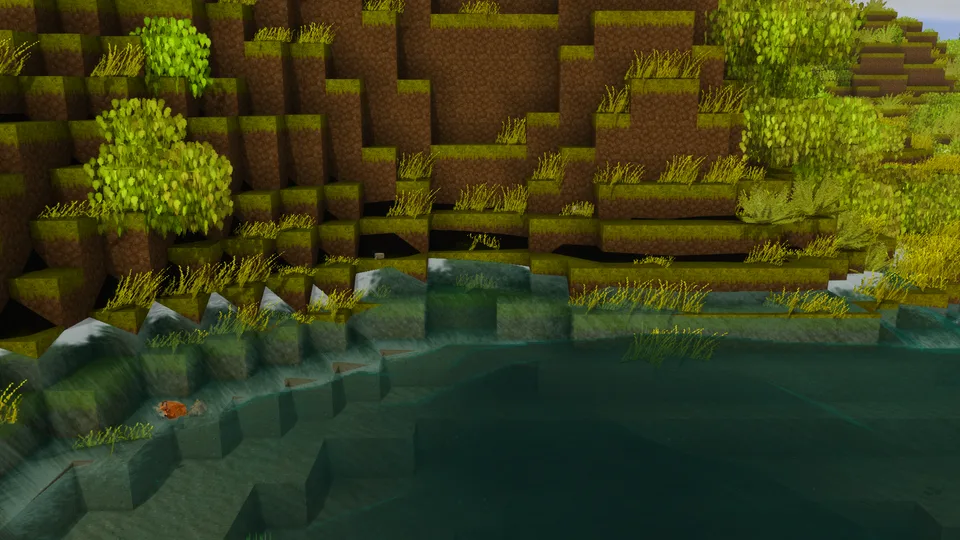
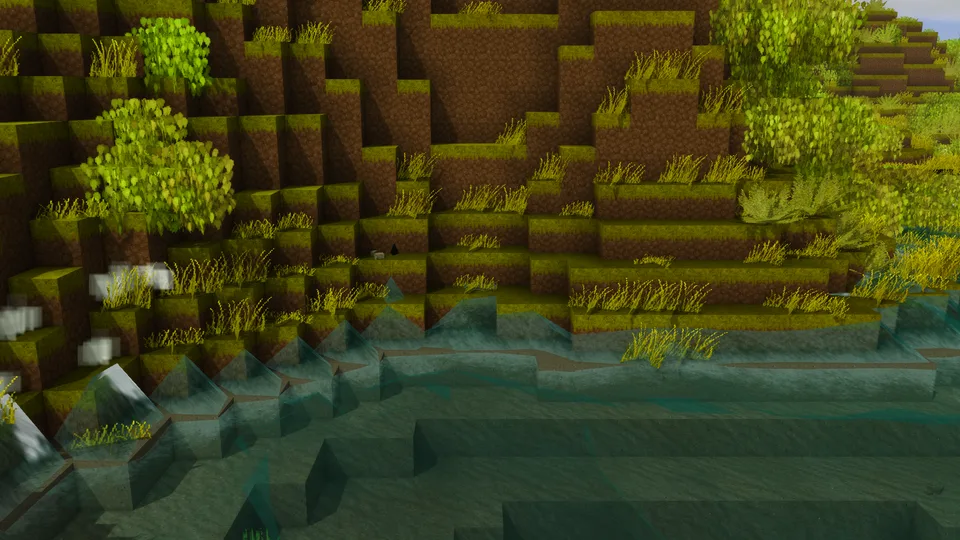
336 fix: a wall takes no sheet, so no shards of swash on a cliff
A step steeper than 1:1, or a second riser with no tread between, stops
the sheet, and a 1:1 slope runs up by a wave height as a wall does. The
reflected lift is shared across the trains under the slope limit, a strike's
crest follows the wave's angle to the face, and foam holds a one-block band.

[claude-opus-5-5] on behalf of hoblin

diff --git a/RoughSeas/Storms/SeaSurface.cs b/RoughSeas/Storms/SeaSurface.cs
@@ -166,6 +166,14 @@ public sealed class SeaSurface
         Span<double> towardX = stackalloc double[Slots], towardZ = stackalloc double[Slots];
         var steepness = Local(x, z, share, heights, lags, numbers, towardX, towardZ);
         var facing = Facing(x, z, share);
+        var limited = 1.0;
+        if (facing is { } wall)
+        {
+            var total = 0.0;
+            for (var slot = 0; slot < Slots; slot++) total += heights[slot] * wall.Reflection * Math.Max(0, -(towardX[slot] * wall.NormalX + towardZ[slot] * wall.NormalZ));
+            var allowed = Seabed!.FaceSlope * Math.Max(0, wall.Distance - FaceReading.FirstWaterVertex);
+            if (total > allowed) limited = allowed / total;
+        }
         double shiftX = 0, rise = 0, shiftZ = 0;
         for (var slot = 0; slot < Slots; slot++)
         {
@@ -180,7 +188,7 @@ public sealed class SeaSurface
             var along = towardX[slot] * face.NormalX + towardZ[slot] * face.NormalZ;
             if (along >= 0) continue;
             var mirrored = theta - 2 * numbers[slot] * along * face.Distance;
-            var returned = Math.Min(heights[slot] * face.Reflection * -along, Seabed!.FaceSlope * Math.Max(0, face.Distance - FaceReading.FirstWaterVertex));
+            var returned = heights[slot] * face.Reflection * -along * limited;
             rise += returned * Math.Sin(mirrored);
             var back = steepness * returned * Math.Cos(mirrored);
             shiftX += back * (towardX[slot] - 2 * along * face.NormalX);
@@ -199,8 +207,8 @@ public sealed class SeaSurface
         return (turned < 0 ? turned + FullTurn : turned) / frequency[Dominant];
     }
 
-    /// <summary>Whether the dominant train, as the bed turns it here, runs against this outward normal.</summary>
-    public bool RunsAgainst(double x, double z, double normalX, double normalZ)
+    /// <summary>The cosine at which the dominant train, as the bed turns it here, runs into this outward normal; 0 for a train running away from it.</summary>
+    public double Incidence(double x, double z, double normalX, double normalZ)
     {
         var (towardX, towardZ) = (numberX[Dominant], numberZ[Dominant]);
         if (Seabed is { } field && field.Covers(x, z) && Dominant < field.Numbers.Length && Dominant < SurfField.Slots && field.Numbers[Dominant] == (towardX, towardZ))
@@ -208,7 +216,8 @@ public sealed class SeaSurface
             towardX += (field.LagAt(Dominant, x + 1, z) - field.LagAt(Dominant, x - 1, z)) / 2;
             towardZ += (field.LagAt(Dominant, x, z + 1) - field.LagAt(Dominant, x, z - 1)) / 2;
         }
-        return towardX * normalX + towardZ * normalZ < 0;
+        var length = Math.Sqrt(towardX * towardX + towardZ * towardZ);
+        return length > 0 ? Math.Max(0, -(towardX * normalX + towardZ * normalZ) / length) : 0;
     }
 
     /// <summary>The height of the wave passing here, trough to crest, over the bed, and whether the depth has capped this sea here, as the shader's <c>breaking</c> says.</summary>

diff --git a/RoughSeas/Shore/Band.cs b/RoughSeas/Shore/Band.cs
@@ -21,22 +21,29 @@ public readonly record struct Reached(int Fluid, int Rings, double Head, int Fro
 /// </summary>
 public sealed class Band(RunUp runUp, SheetConfig sheet, int slopeSearchBlocks)
 {
+    private const double WaterLineBelowBlockTop = 1.0 / 8;
     private static readonly (int X, int Z)[] Sides = [(1, 0), (-1, 0), (0, 1), (0, -1)];
+
+    public double WallSlope => runUp.WallSlope;
+
+    /// <summary>Whether a step this high, coming straight after one that high, is a wall: higher than the wall's slope over its one block, or a second riser at that slope with no tread between them.</summary>
+    public bool IsWall(double rise, double previousRise) => rise > WallSlope || (rise >= WallSlope && previousRise >= WallSlope);
 
     public Dictionary<(int X, int Z), Reached> Spread(IShoreGround ground, IEnumerable<ShoreSeed> seeds, Func<int, int, IReadOnlyList<Sea>> seas,
         double runUpScale = 1)
     {
         var reached = new Dictionary<(int X, int Z), Reached>();
-        var fronts = new PriorityQueue<(int X, int Z, Reached From, SheetFront Front), double>();
+        var fronts = new PriorityQueue<(int X, int Z, Reached From, SheetFront Front, double Rise), double>();
 
         foreach (var seed in seeds)
         {
             foreach (var (dx, dz) in Sides)
             {
                 if (ground.At(seed.X + dx, seed.Z + dz) is not { Kind: ShoreKind.Land } land) continue;
+                if (land.Elevation - WaterLineBelowBlockTop > WallSlope) continue;
                 if (Thrown(ground, seed.X, seed.Z, dx, dz, seas(seed.X, seed.Z), runUpScale) is not var (runUp, thrown)) continue;
                 if (thrown.Cross(land.Elevation, land.Bed) is not { } front) continue;
-                fronts.Enqueue((seed.X + dx, seed.Z + dz, new Reached(seed.Fluid, 1, front.Head, seed.X, seed.Z, runUp), front), -front.Head);
+                fronts.Enqueue((seed.X + dx, seed.Z + dz, new Reached(seed.Fluid, 1, front.Head, seed.X, seed.Z, runUp), front, land.Elevation - WaterLineBelowBlockTop), -front.Head);
             }
         }
 
@@ -49,9 +56,11 @@ public sealed class Band(RunUp runUp, SheetConfig sheet, int slopeSearchBlocks)
             {
                 var (x, z) = (next.X + dx, next.Z + dz);
                 if (reached.ContainsKey((x, z)) || ground.At(x, z) is not { Kind: ShoreKind.Land } land) continue;
-                if (next.Front.Cross(land.Elevation - from.Elevation, land.Bed) is { } front)
+                var rise = land.Elevation - from.Elevation;
+                if (IsWall(rise, next.Rise)) continue;
+                if (next.Front.Cross(rise, land.Bed) is { } front)
                 {
-                    fronts.Enqueue((x, z, next.From with { Rings = next.From.Rings + 1 }, front), -front.Head);
+                    fronts.Enqueue((x, z, next.From with { Rings = next.From.Rings + 1 }, front, rise), -front.Head);
                 }
             }
         }

diff --git a/RoughSeas/Storms/SurfaceShader.cs b/RoughSeas/Storms/SurfaceShader.cs
@@ -67,6 +67,7 @@ public static class SurfaceShader
     private static double lensDepthRatio;
     private static double wetReflectance;
     private static double foamDecaySeconds;
+    private static double wallSlope;
     private static bool normalTilted;
 
     public static bool DrawWaves { get; set; } = true;
@@ -75,9 +76,9 @@ public static class SurfaceShader
 
     public static bool DrawShore { get; set; } = true;
 
-    public static bool Attach(SeaSurface waves, SurfaceField heights, double lensDepth, double wetShade, double foamDecay, ICoreClientAPI api)
+    public static bool Attach(SeaSurface waves, SurfaceField heights, double lensDepth, double wetShade, double foamDecay, double steepestShore, ICoreClientAPI api)
     {
-        (surface, field, capi, lensDepthRatio, wetReflectance, foamDecaySeconds) = (waves, heights, api, lensDepth, wetShade, foamDecay);
+        (surface, field, capi, lensDepthRatio, wetReflectance, foamDecaySeconds, wallSlope) = (waves, heights, api, lensDepth, wetShade, foamDecay, steepestShore);
         heightMap = new LoadedTexture(api);
         heightMapUnit = GL.GetInteger(GetPName.MaxCombinedTextureImageUnits) - 1;
         shoreTextures = ShoreSamplers.Select(_ => GL.GenTexture()).ToArray();
@@ -224,6 +225,7 @@ public static class SurfaceShader
             __instance.Uniform("seaPlunging", new Vec2f((float)surface.Shape.PlungingFrom, (float)surface.Shape.PlungingTo));
             __instance.Uniform("seaFoamDecay", DrawFoam ? (float)foamDecaySeconds : 0);
             __instance.Uniform("seaFaceSlope", (float)(shore?.FaceSlope ?? 0));
+            __instance.Uniform("seaWallSlope", (float)wallSlope);
             var vectors = surface.Vectors();
             float Valid(int slot) => shore != null && slot < vectors.Length && slot < shore.Numbers.Length && shore.Numbers[slot] == vectors[slot] ? 1 : 0;
             __instance.Uniform("seaLagValidA", new Vec4f(Valid(0), Valid(1), Valid(2), Valid(3)));

diff --git a/RoughSeas/Surf/SurfBuilder.cs b/RoughSeas/Surf/SurfBuilder.cs
@@ -85,7 +85,7 @@ public sealed class SurfBuilder(Band band, FaceBuilder faces)
         return (sheets, steps.Values.ToList());
     }
 
-    private static void RecordSteps(SeabedMap map, IShoreGround ground, int level, (int X, int Z) cell, Reached reached, double distance, int index,
+    private void RecordSteps(SeabedMap map, IShoreGround ground, int level, (int X, int Z) cell, Reached reached, double distance, int index,
         Dictionary<(int X, int Z, int SideX, int SideZ), StepFace> steps)
     {
         if (reached.Head <= 0) return;
@@ -95,7 +95,7 @@ public sealed class SurfBuilder(Band band, FaceBuilder faces)
             var (x, z) = (cell.X + dx, cell.Z + dz);
             var neighbour = ground.At(x, z);
             var rise = neighbour.Kind == ShoreKind.Land ? neighbour.Elevation - from : map.CrownAt(x, z) - (level + StillLevel) - from;
-            if (double.IsNaN(rise) || rise <= 0 || rise < reached.Head) continue;
+            if (double.IsNaN(rise) || rise <= 0 || (rise < reached.Head && rise <= band.WallSlope)) continue;
             if (!steps.TryGetValue((cell.X, cell.Z, dx, dz), out var step))
             {
                 steps[(cell.X, cell.Z, dx, dz)] = step = new StepFace(cell.X, cell.Z, level, dx, dz, from, rise, distance, reached.RunUp, new double[Scales.Length], new double[Scales.Length]);

diff --git a/RoughSeas.Tests/Shore/BandTests.cs b/RoughSeas.Tests/Shore/BandTests.cs
@@ -4,6 +4,28 @@ namespace RoughSeas.Tests.Shore;
 
 public class BandTests
 {
+    [Fact]
+    public void ASheetClimbsOneRiserButStopsAtASecondWithNoTreadBetween()
+    {
+        var reached = Spread(new Ground("~~012"), new Sea(8, 12));
+        Assert.Contains((3, 0), reached.Keys);
+        Assert.DoesNotContain((4, 0), reached.Keys);
+    }
+
+    [Fact]
+    public void ASheetClimbsARiserAfterATread()
+    {
+        var reached = Spread(new Ground("~~0112"), new Sea(8, 12));
+        Assert.Contains((5, 0), reached.Keys);
+    }
+
+    [Fact]
+    public void ASheetStopsAtAStepHigherThanItsSlopeAllows()
+    {
+        var reached = Spread(new Ground("~~02"), new Sea(8, 12));
+        Assert.DoesNotContain((3, 0), reached.Keys);
+    }
+
     private static readonly Sea Calm = new(1, 6);
     private static readonly Sea Storm = new(8, 12);
 

diff --git a/RoughSeas/Storms/FaceStrikes.cs b/RoughSeas/Storms/FaceStrikes.cs
@@ -51,10 +51,12 @@ public sealed class FaceStrikes(SeaSurface surface, SurfaceField shares, Waves w
     {
         var (x, z) = (wall.X + 0.5, wall.Z + 0.5);
         var share = shares.Factor(x, z);
-        if (share <= 0 || surface.SinceCrest(x, z) >= window || !surface.RunsAgainst(x, z, wall.NormalX, wall.NormalZ)) return;
+        if (share <= 0 || surface.SinceCrest(x, z) >= window) return;
+        var incidence = surface.Incidence(x, z, wall.NormalX, wall.NormalZ);
+        if (incidence <= 0) return;
         var (height, depth, capped) = surface.WaveAt(x, z, share);
         if (height <= 0) return;
-        var crest = height * (1 + wall.Reflection) / 2;
+        var crest = height * (1 + wall.Reflection * incidence) / 2;
         if (crest >= wall.Rise)
         {
             overtopping++;

diff --git a/RoughSeas/Shore/RunUp.cs b/RoughSeas/Shore/RunUp.cs
@@ -8,6 +8,8 @@ public sealed class RunUp(RunUpConfig config)
 {
     public const double Gravity = 9.81;
 
+    public double WallSlope => config.WallSlope;
+
     public static double DeepLength(double period) => Gravity * period * period / (2 * Math.PI);
 
     public static double Iribarren(double height, double period, double slope) =>
@@ -16,7 +18,7 @@ public sealed class RunUp(RunUpConfig config)
     public double Metres(double height, double period, double slope, BedConfig bed)
     {
         if (height <= 0 || period <= 0) return 0;
-        if (slope > config.WallSlope) return height;
+        if (slope >= config.WallSlope) return height;
         return bed.Sandy && slope <= config.SandyMaxSlope ? Stockdon(height, period, slope) : Eurotop(height, period, slope, bed.Roughness);
     }
 

diff --git a/RoughSeas/Storms/StormsModSystem.cs b/RoughSeas/Storms/StormsModSystem.cs
@@ -72,7 +72,7 @@ public class StormsModSystem : ModSystem
         DrawnSea = new DrawnSea(surface, field);
         DrawnWater = new DrawnWater(DrawnSea);
         var shoreConfig = capi.ModLoader.GetModSystem<ShoreModSystem>().Config;
-        if (SurfaceShader.Attach(surface, field, shoreConfig.Sheet.LensDepthRatio, Config.Surface.Shore.WetReflectance, shoreConfig.Faces.FoamDecaySeconds, capi))
+        if (SurfaceShader.Attach(surface, field, shoreConfig.Sheet.LensDepthRatio, Config.Surface.Shore.WetReflectance, shoreConfig.Faces.FoamDecaySeconds, shoreConfig.RunUp.WallSlope, capi))
         {
             clock = new SurfaceClock(this, sea, surface, field, Surf(capi), capi);
             EyeUnderSurface.Attach(this, capi, DrawnWater, Config.Eye);

diff --git a/docs/wiki/The-Science-of-the-Sea.md b/docs/wiki/The-Science-of-the-Sea.md
@@ -44,6 +44,7 @@ The drawn waves read the seabed around the player, a block a cell: its depth und
 - **Soaking in.** The bed drinks the sheet at its hydraulic conductivity K, by Darcy's law: in m/s, sand 10⁻⁴, gravel 3·10⁻², soil 10⁻⁶ and rock nothing (Freeze and Cherry 1979, *Groundwater*, table 2.2). On gravel a thin sheet sinks in and little runs back; on rock it all runs back.
 - **Wet sand.** Wet sand reflects about half the light dry sand does: Ångström measured an albedo of 0.182 dry against 0.091 wet (Lekner and Dorf 1988, *Applied Optics* 27(7), "Why some things are darker when wet"). Ground the swash reaches is darkened by the share of time it stays wet: the time its sheet's mean depth takes to soak in, over the wave period, times the chance a wave reaches it, exp(−ln 50 (R / R2%)²) in a Rayleigh sea, R the run-up it takes to get there.
 - **Waves against a face.** A face is any side of a full block the sea or a sheet meets, a cliff and a beach step alike. A wave reflects off it by the coefficient Kr = tanh(a ξ^b), a = 0.167 (1 − exp(−3.2 γf)), b = 1.49 (γf − 0.38)² + 0.86 (Zanuttigh and van der Meer 2008, *Coastal Engineering* 55(10)), ξ the surf similarity parameter of the slope read from 1.5 Hm0 below still water up to the face (EurOtop 2018, 5.3.4): nothing to speak of on a beach, all of it at a wall. The reflected wave leaves with the incident one's phase at the face, so the two stand together as a clapotis, its crest (1 + Kr) H / 2 over still water for a wave square to the face; a wave meeting it at an angle θ returns cos θ of that, nothing as it grazes along the face. The reflected water rises from the face no steeper than tan 30°, the slope beside the 120° crest of Stokes' limiting wave (1880), so the crest is drawn a little off a wall rather than on it. Away from a short face the reflection thins as its width over √(L s), L the wavelength and s the distance.
+- **A wall takes no sheet.** A step steeper than 1:1 is a wall, and so is a second riser straight after the first with no tread between them, a staircase at 1:1: a sheet stops at its foot and strikes it, however much head it has, and the water under the shore doesn't reach past it. A slope of 1:1 or steeper runs up by a wave height, as a wall does. The wall's water is the reflection and spray.
 - **A wave that breaks on a face.** A wave breaks at a face when the depth can't carry it (H ≥ d / 1.28) or when it reaches the face already whitecapped. A wave that breaks on a face strikes impulsively. The water it throws above its clapotis crest follows EurOtop 2018's overtopping of vertical walls under impulsive waves, read as water passing the height z = Rc: q / √(g H³) = 0.011 (H / (h s))^½ exp(−2.2 z / H) up to z / H = 1.35 and 0.0014 (H / (h s))^½ (z / H)^−3 above it (eq. 7.7 and 7.8); for a crest already breaking when it reaches a deep toe those formulas are the closest analogue measured. A face lower than the crest takes no jet: the wave runs over it. That is a wave's water over its period; its share above each height sets how high each drop goes, at most at the highest water speed measured at a wall under a breaking wave, about 2.2 C, C its celerity: Ikeda, O'Shea, Brucker, Drazen, Dommermuth, Fu, Fullerton and Duncan (2012, 29th Symposium on Naval Hydrodynamics) measured the contact point on a face under a plunging breaker rising to about 3 m/s, under waves of 1.15 Hz, whose phase speed is 1.36 m/s.
 - **A sheet stopped by a step.** A sheet that can't climb a step (above) strikes it with all the water of its lens, the drops reaching at most its velocity head u² / 2g, most of them far less, by the same exp(−2.2 z / H), H its head.
 - **Foam at a face.** Foam lies along the face for a band one wave height wide after a wave the depth has broken strikes it, and fades as whitecap foam does: e-folding in 3.1 s, the middle of the 1.4 to 4.8 s Callaghan, Deane and Stokes measured (2012, *JGR Oceans*).
